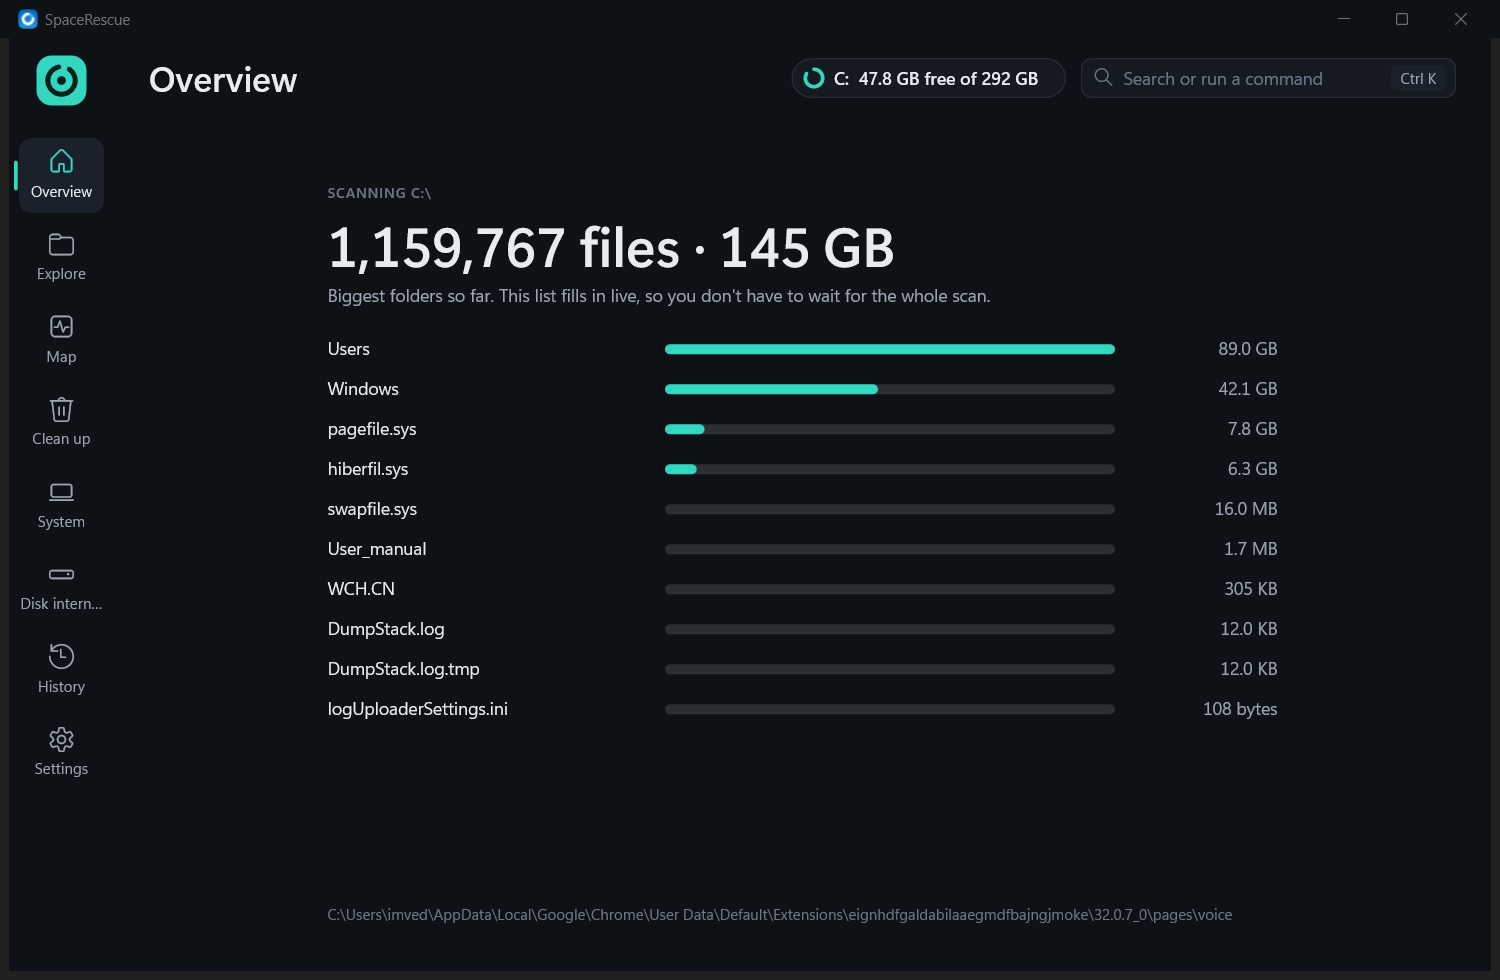
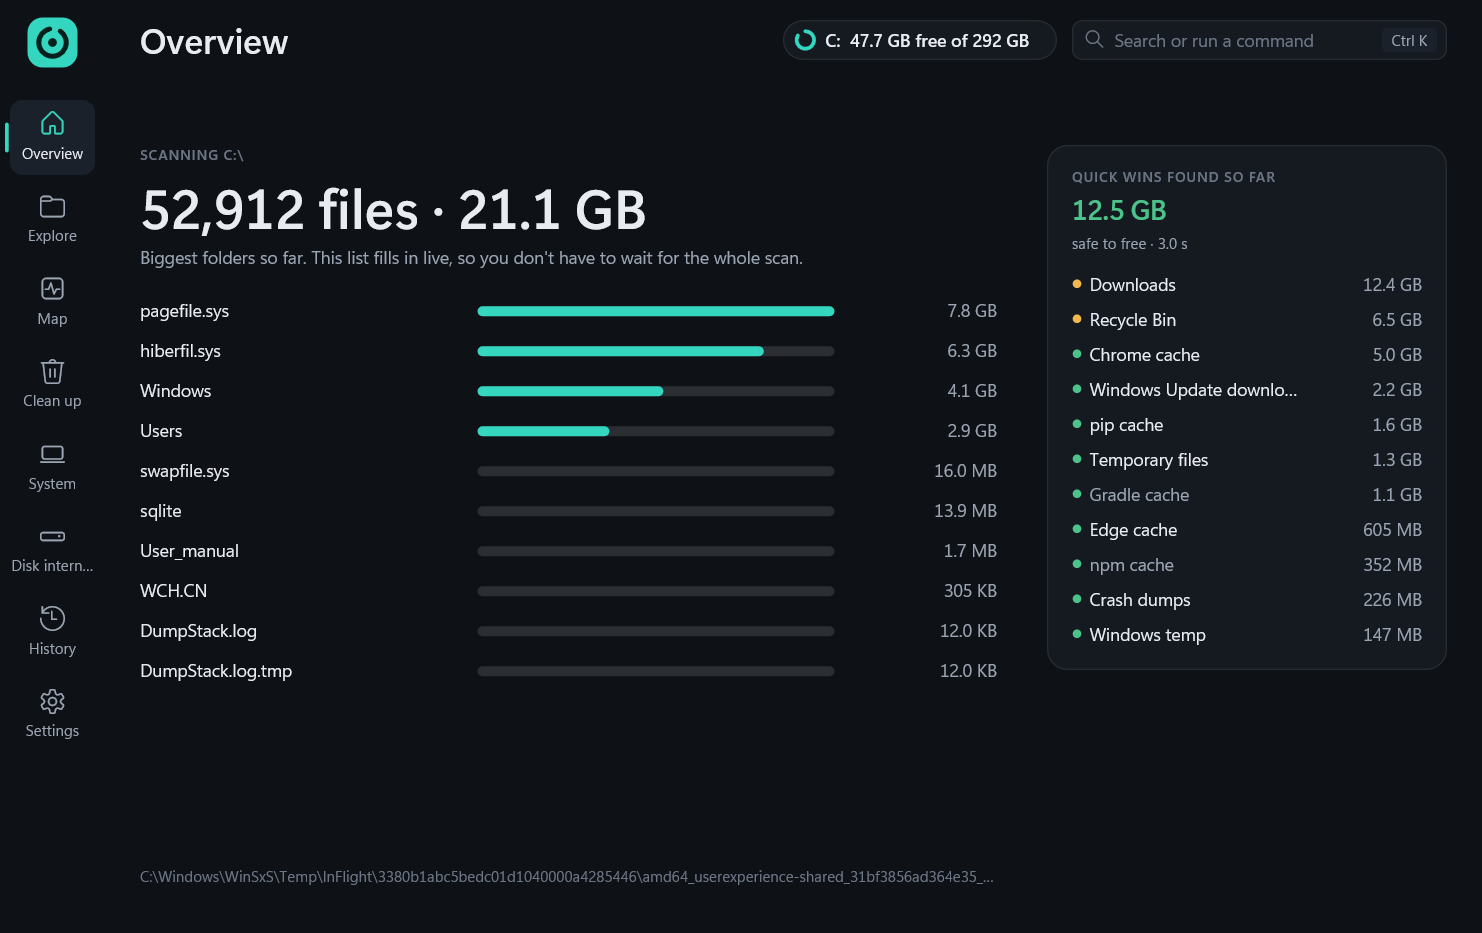
gfx: WM_PRINTCLIENT rendering and frame snapshots; live scan screen with quick wins

diff --git a/src/ui2/preview.cpp b/src/ui2/preview.cpp
@@ -4,6 +4,7 @@
 
 #include "../gfx/gfx.h"
 #include "../insights/insights.h"
+#include "../insights/quickwins.h"
 #include "../internals/internals.h"
 #include "../notify/tray.h"
 #include "../rescue/rescue.h"
@@ -54,6 +55,8 @@ struct App
     std::wstring volume;
     u64 volTotal = 0, volFree = 0;
     std::unique_ptr<Scanner> scanner;
+    std::unique_ptr<QuickWins> quick;
+    DWORD scanStart = 0;
     std::unique_ptr<ScanTree> tree;
     std::unique_ptr<InsightsReport> report;
     std::unique_ptr<viz::KindModel> kinds;
@@ -817,8 +820,29 @@ void PageSettings(Canvas& c, const D2D1_RECT_F& area)
 void DrawScanning(Canvas& c, const D2D1_RECT_F& area)
 {
     const ScanProgress p = g.scanner ? g.scanner->Progress() : ScanProgress();
-    const float w = std::min(760.0f, area.right - area.left);
-    const float x = area.left + (area.right - area.left - w) / 2;
+    // Quick wins (right column): sized in parallel, answer within seconds.
+    const float qw = 320;
+    const float w = std::min(700.0f, area.right - area.left - qw - 40);
+    const float x = area.left + (area.right - area.left - w - qw - 40) / 2;
+    if (g.quick)
+    {
+        const float qx = x + w + 40;
+        const D2D1_RECT_F card = Rect(qx, area.top + 40, qw, 420);
+        c.Card(card, 16);
+        Overline(c, L"Quick wins found so far", qx + 20, card.top + 18, qw - 40);
+        c.Text(FormatBytes(g.quick->SafeTotal()), Rect(qx + 20, card.top + 36, qw - 40, 40), Text::Number, P().safe);
+        c.Text(Fmt(L"safe to free · %.1f s", (GetTickCount() - g.scanStart) / 1000.0), Rect(qx + 20, card.top + 70, qw - 40, 18),
+            Text::Caption, P().textDim);
+        float qy = card.top + 100;
+        for (const QuickWin& q : g.quick->Snapshot())
+        {
+            if (qy + 26 > card.bottom - 8 || !q.bytes) continue;
+            c.Circle(qx + 24, qy + 11, 3.5f, q.safe ? P().safe : P().review);
+            c.Text(q.label, Rect(qx + 34, qy, qw - 150, 22), Text::Body, q.done ? P().text : P().textDim, Align::Left, true);
+            c.Text(FormatBytes(q.bytes), Rect(qx + qw - 120, qy, 100, 22), Text::Body, P().textDim, Align::Right, true);
+            qy += 28;
+        }
+    }
     float y = area.top + 40;
     Overline(c, L"Scanning " + g.root, x, y, w);
     c.Text(FormatCount(p.files) + L" files · " + FormatBytes(p.bytes), Rect(x, y + 20, w, 56), Text::Hero, P().text);
@@ -840,10 +864,10 @@ void DrawScanning(Canvas& c, const D2D1_RECT_F& area)
     c.Text(p.currentPath, Rect(x, area.bottom - 30, w, 18), Text::Caption, P().textFaint);
 }
 
-void Paint()
+void Paint(HDC printDc = nullptr)
 {
     Canvas& c = g.canvas;
-    if (!c.Begin(g.hwnd, P())) return;
+    if (printDc ? !c.BeginPrint(g.hwnd, printDc, P()) : !c.Begin(g.hwnd, P())) return;
     g.hots.clear();
     c.Clear(P().base);
     DrawRail(c);
@@ -897,6 +921,12 @@ void StartScan()
     ScanOptions o;
     o.root = g.root;
     g.scanner->Start(o, g.hwnd, WM_SCAN_DONE);
+    g.scanStart = GetTickCount();
+    if (g.root.size() <= 3)
+    {
+        g.quick = std::make_unique<QuickWins>();
+        g.quick->Start(g.volume);
+    }
     SetTimer(g.hwnd, TimerProgress, 100, nullptr);
 }
 
@@ -943,6 +973,9 @@ LRESULT CALLBACK Proc(HWND hwnd, UINT msg, WPARAM wp, LPARAM lp)
         EndPaint(hwnd, &ps);
         return 0;
     }
+    case WM_PRINTCLIENT:
+        Paint(reinterpret_cast<HDC>(wp));
+        return 0;
     case WM_SIZE:
         g.canvas.Resize(LOWORD(lp), HIWORD(lp));
         InvalidateRect(hwnd, nullptr, FALSE);
@@ -955,6 +988,40 @@ LRESULT CALLBACK Proc(HWND hwnd, UINT msg, WPARAM wp, LPARAM lp)
         return 0;
     }
     case WM_TIMER:
+        if (wp == 99) // SR_SNAPSHOT: render this frame into a BMP (docs screenshots without screen capture)
+        {
+            KillTimer(hwnd, 99);
+            wchar_t spec[MAX_PATH] = {};
+            GetEnvironmentVariableW(L"SR_SNAPSHOT", spec, MAX_PATH);
+            std::wstring file = spec;
+            file = file.substr(0, file.find(L';'));
+            RECT rc;
+            GetClientRect(hwnd, &rc);
+            HDC screen = GetDC(hwnd);
+            HDC mem = CreateCompatibleDC(screen);
+            BITMAPINFO bi = {};
+            bi.bmiHeader = { sizeof(BITMAPINFOHEADER), rc.right, -rc.bottom, 1, 32, BI_RGB };
+            void* bits = nullptr;
+            HBITMAP dib = CreateDIBSection(screen, &bi, DIB_RGB_COLORS, &bits, nullptr, 0);
+            HGDIOBJ old = SelectObject(mem, dib);
+            Paint(mem);
+            GdiFlush();
+            BITMAPFILEHEADER fh = { 0x4D42, 0, 0, 0, sizeof(BITMAPFILEHEADER) + sizeof(BITMAPINFOHEADER) };
+            const DWORD bytes = static_cast<DWORD>(rc.right) * rc.bottom * 4;
+            fh.bfSize = fh.bfOffBits + bytes;
+            if (FILE* f = _wfopen(file.c_str(), L"wb"))
+            {
+                fwrite(&fh, sizeof fh, 1, f);
+                fwrite(&bi.bmiHeader, sizeof bi.bmiHeader, 1, f);
+                fwrite(bits, bytes, 1, f);
+                fclose(f);
+            }
+            SelectObject(mem, old);
+            DeleteObject(dib);
+            DeleteDC(mem);
+            ReleaseDC(hwnd, screen);
+            return 0;
+        }
         InvalidateRect(hwnd, nullptr, FALSE);
         return 0;
     case WM_SCAN_DONE:
@@ -1096,6 +1163,11 @@ int RunPreview(const HINSTANCE instance, const int show, const PreviewOptions& o
     DwmSetWindowAttribute(g.hwnd, 38 /* DWMWA_SYSTEMBACKDROP_TYPE */, &backdrop, sizeof backdrop);
     ShowWindow(g.hwnd, show);
     StartScan();
+    if (wchar_t spec[MAX_PATH]; GetEnvironmentVariableW(L"SR_SNAPSHOT", spec, MAX_PATH))
+    {
+        const wchar_t* ms = wcschr(spec, L';');
+        SetTimer(g.hwnd, 99, ms ? static_cast<UINT>(_wtoi(ms + 1)) : 3000, nullptr);
+    }
 
     MSG msg;
     while (GetMessageW(&msg, nullptr, 0, 0) > 0)

diff --git a/src/gfx/gfx.cpp b/src/gfx/gfx.cpp
@@ -216,10 +216,36 @@ const wchar_t* KindLabel(FileKind k)
 
 // --- Canvas ----------------------------------------------------------------------
 
+bool Canvas::BeginPrint(HWND hwnd, HDC hdc, const Palette& palette)
+{
+    // WM_PRINTCLIENT (PrintWindow, screenshots, magnifiers): draw the same frame into a GDI DC.
+    m_palette = &palette;
+    RECT rc;
+    GetClientRect(hwnd, &rc);
+    const UINT dpi = GetDpiForWindow(hwnd);
+    const float fdpi = static_cast<float>(dpi ? dpi : 96);
+    if (!m_dcTarget)
+    {
+        const D2D1_RENDER_TARGET_PROPERTIES props = D2D1::RenderTargetProperties(D2D1_RENDER_TARGET_TYPE_DEFAULT,
+            D2D1::PixelFormat(DXGI_FORMAT_B8G8R8A8_UNORM, D2D1_ALPHA_MODE_IGNORE), fdpi, fdpi);
+        if (FAILED(Factory()->CreateDCRenderTarget(&props, &m_dcTarget))) return false;
+        m_dcTarget->SetTextAntialiasMode(D2D1_TEXT_ANTIALIAS_MODE_GRAYSCALE);
+    }
+    if (FAILED(m_dcTarget->BindDC(hdc, &rc))) return false;
+    m_dcTarget->SetDpi(fdpi, fdpi);
+    SafeRelease(m_brush);
+    m_target = m_dcTarget;
+    m_target->CreateSolidColorBrush(D2D1::ColorF(0, 0, 0), &m_brush);
+    m_size = m_target->GetSize();
+    m_target->BeginDraw();
+    m_target->SetTransform(D2D1::Matrix3x2F::Identity());
+    return true;
+}
+
 bool Canvas::Begin(HWND hwnd, const Palette& palette)
 {
     m_palette = &palette;
-    if (!m_target || m_hwnd != hwnd)
+    if (!m_hwndTarget || m_hwnd != hwnd)
     {
         Discard();
         m_hwnd = hwnd;
@@ -230,19 +256,21 @@ bool Canvas::Begin(HWND hwnd, const Palette& palette)
         D2D1_RENDER_TARGET_PROPERTIES props = D2D1::RenderTargetProperties(D2D1_RENDER_TARGET_TYPE_DEFAULT,
             D2D1::PixelFormat(DXGI_FORMAT_B8G8R8A8_UNORM, D2D1_ALPHA_MODE_PREMULTIPLIED), m_dpi, m_dpi);
         if (FAILED(Factory()->CreateHwndRenderTarget(props,
-            D2D1::HwndRenderTargetProperties(hwnd, D2D1::SizeU(rc.right - rc.left, rc.bottom - rc.top)), &m_target)))
+            D2D1::HwndRenderTargetProperties(hwnd, D2D1::SizeU(rc.right - rc.left, rc.bottom - rc.top)), &m_hwndTarget)))
             return false;
-        m_target->SetTextAntialiasMode(D2D1_TEXT_ANTIALIAS_MODE_GRAYSCALE);
+        m_hwndTarget->SetTextAntialiasMode(D2D1_TEXT_ANTIALIAS_MODE_GRAYSCALE);
+        m_target = m_hwndTarget;
         m_target->CreateSolidColorBrush(D2D1::ColorF(0, 0, 0), &m_brush);
     }
     const UINT dpi = GetDpiForWindow(hwnd);
     if (dpi && static_cast<float>(dpi) != m_dpi)
     {
         m_dpi = static_cast<float>(dpi);
-        m_target->SetDpi(m_dpi, m_dpi);
+        m_hwndTarget->SetDpi(m_dpi, m_dpi);
         for (auto& f : m_formats) f.second->Release();
         m_formats.clear();
     }
+    m_target = m_hwndTarget;
     m_size = m_target->GetSize();
     m_target->BeginDraw();
     m_target->SetTransform(D2D1::Matrix3x2F::Identity());
@@ -252,6 +280,14 @@ bool Canvas::Begin(HWND hwnd, const Palette& palette)
 bool Canvas::End()
 {
     const HRESULT hr = m_target->EndDraw();
+    if (m_target == m_dcTarget)
+    {
+        // Back to the window target after a WM_PRINTCLIENT render.
+        SafeRelease(m_brush);
+        m_target = m_hwndTarget;
+        if (m_target) m_target->CreateSolidColorBrush(D2D1::ColorF(0, 0, 0), &m_brush);
+        return SUCCEEDED(hr);
+    }
     if (hr == static_cast<HRESULT>(D2DERR_RECREATE_TARGET))
     {
         Discard();
@@ -262,13 +298,15 @@ bool Canvas::End()
 
 void Canvas::Resize(const UINT width, const UINT height)
 {
-    if (m_target) m_target->Resize(D2D1::SizeU(width, height));
+    if (m_hwndTarget) m_hwndTarget->Resize(D2D1::SizeU(width, height));
 }
 
 void Canvas::Discard()
 {
     SafeRelease(m_brush);
-    SafeRelease(m_target);
+    SafeRelease(m_hwndTarget);
+    SafeRelease(m_dcTarget);
+    m_target = nullptr;
     for (auto& f : m_formats) f.second->Release();
     m_formats.clear();
 }

diff --git a/src/gfx/gfx.h b/src/gfx/gfx.h
@@ -73,6 +73,8 @@ class Canvas
 public:
     // Creates device resources for `hwnd` on first use; call inside WM_PAINT.
     bool Begin(HWND hwnd, const Palette& palette);
+    // Renders into a GDI DC instead (WM_PRINTCLIENT / PrintWindow). End() switches back.
+    bool BeginPrint(HWND hwnd, HDC hdc, const Palette& palette);
     // Returns false if the device was lost (the caller just repaints).
     bool End();
     void Resize(UINT width, UINT height);
@@ -116,7 +118,9 @@ private:
     IDWriteTextFormat* Format(gfx::Text style);
 
     HWND m_hwnd = nullptr;
-    ID2D1HwndRenderTarget* m_target = nullptr;
+    ID2D1HwndRenderTarget* m_hwndTarget = nullptr;
+    ID2D1DCRenderTarget* m_dcTarget = nullptr;
+    ID2D1RenderTarget* m_target = nullptr;   // the one being drawn to
     ID2D1SolidColorBrush* m_brush = nullptr;
     const Palette* m_palette = nullptr;
     D2D1_SIZE_F m_size = { 0, 0 };
